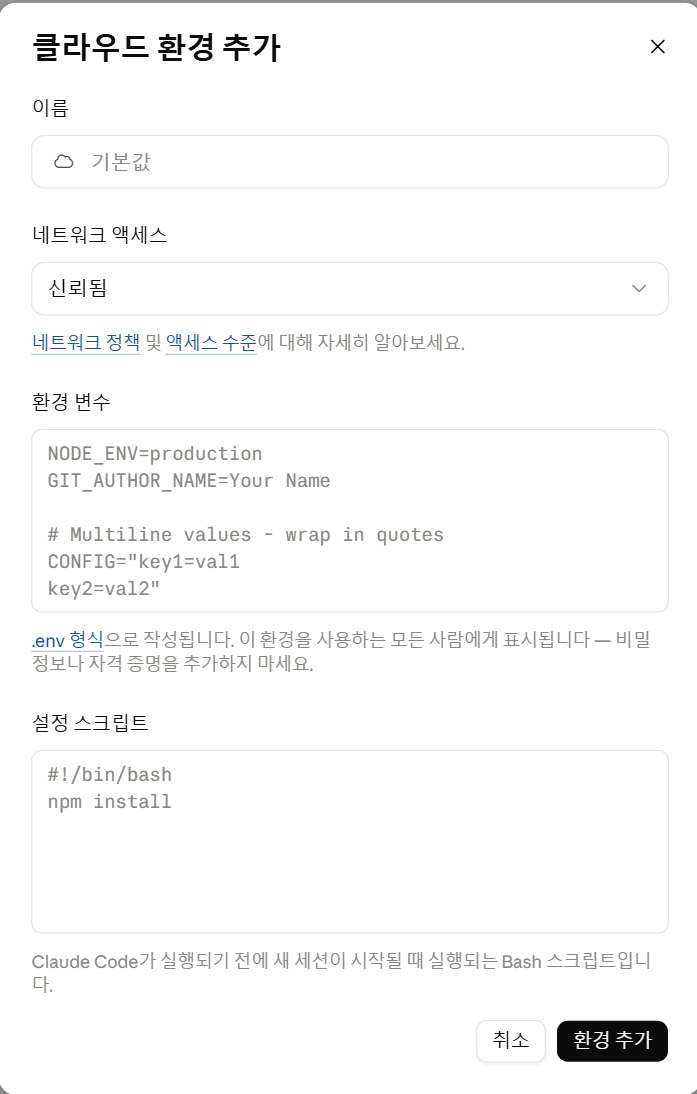
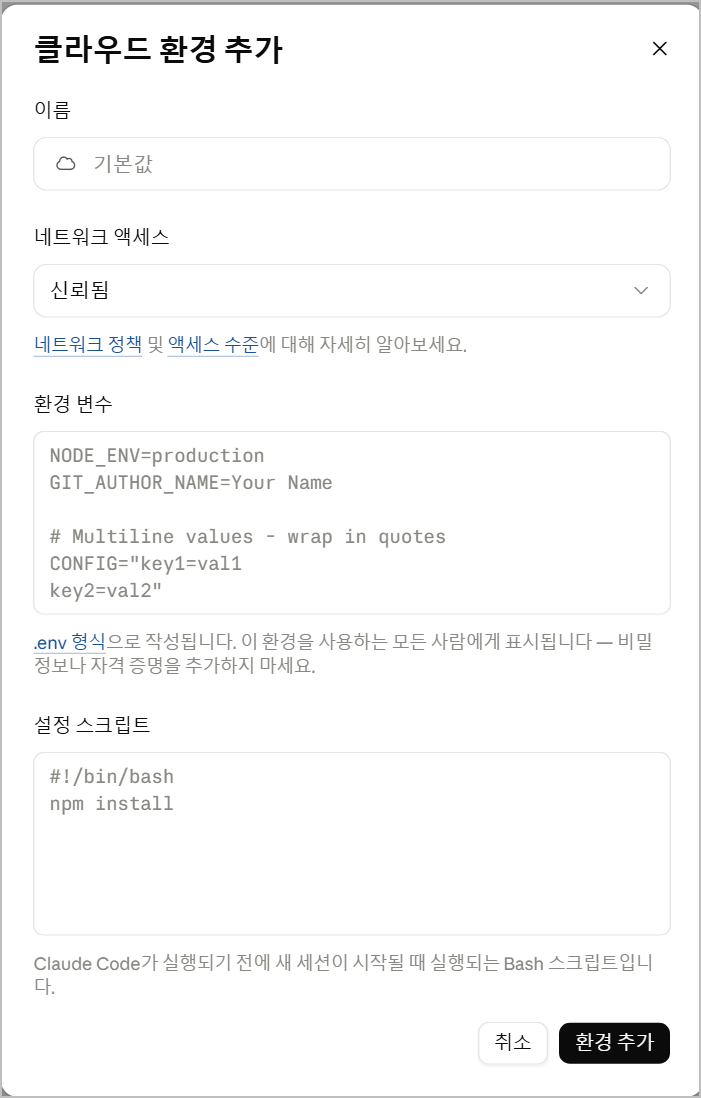
docs(user-guide): 가이드 12 스크린샷에 테두리를 넣고 본문에 맞게 줄인다
- 테두리는 PNG 자체에(연회색, 화면에서 1px), 크기는 `<img width>` 로
  (토큰 400 · 클라우드 환경 340 · 동의 480). GitHub 가 `![]()` 크기와
  `style` 을 지원하지 않아서다.
- 동의 화면은 카드 주변 여백을 잘라 924×760 으로.
- 규칙을 `assets/README.md` 에 적음. test-catalog 199차.

Claude-Session: https://claude.ai/code/session_01PHMCTbMKMt1Nq2yNJHcjEs

diff --git a/docs/05-implementation/test-catalog.md b/docs/05-implementation/test-catalog.md
@@ -420,6 +420,15 @@
 > 겹쳐 보이지만 날짜와 함께 읽으면 유일하다. **고치지 말 것** — 그때의
 > 기록을 지금 규칙으로 고쳐 쓰면 없던 역사를 만드는 셈이다.
 
+- 2026-09-13 (199차): **문서 — 가이드 12 스크린샷 셋에 테두리 + 크기 조정**
+  (사용자 요청: "테두리를 넣고 문서 내용과 어울리게 줄여 달라"). GitHub 는
+  `![]()` 에 크기를 못 주고 `style` 을 지우므로 **테두리는 PNG 자체에**
+  (Pillow, 연회색 · 표시 배율로 나눠 화면 1px), **크기는 `<img width>`**
+  (토큰 400 · 클라우드 환경 340 · 동의 480)로 했다. 동의 화면은 카드 주변
+  베이지 여백이 넓어 480 으로 줄이면 카드가 작아져 **카드 기준 40px 만
+  남기고 잘랐다**(1800×860 → 924×760). 세 그림을 본문 폭 960 의 HTML 로
+  렌더해 Playwright 로 미리보기를 찍어 확인했다. 규칙은 `assets/README.md`
+  에 적었다. e2e 는 늘리지 않았다.
 - 2026-09-13 (198차): **문서 — 2-B 클라우드 환경 추가 대화상자 스크린샷**.
   가이드 12 의 마지막 `TODO(스크린샷)` 이다. claude.ai 화면이라 우리
   컴포넌트로 렌더할 수 없어 **사용자가 직접 캡처**했다(#475). 이 세션은

diff --git a/docs/user-guide/assets/README.md b/docs/user-guide/assets/README.md
@@ -3,3 +3,18 @@
 이 폴더에 사용자 가이드용 화면 캡처를 넣는다. 각 가이드 문서의
 `TODO(스크린샷)` 표시 위치에 대응하는 이미지를 파일명으로 참조한다
 (예: `01-overview.png`). 기능이 안정화된 뒤 일괄 캡처를 권장한다.
+
+## 넣는 규칙 (2026-09-13)
+
+- **크기**는 마크다운 `![]()` 가 아니라 `<img src="assets/…" width="400" alt="…">`
+  로 준다 — GitHub 는 `![]()` 에 크기를 못 주고 `style` 속성은 지운다.
+  본문 폭(약 900px)에 맞춰 대화상자는 340~480 정도가 읽기 좋다.
+- **테두리**는 그림 파일 자체에 넣는다(연회색 `#bfbfbf`, 표시 배율로 나눠
+  화면에서 1px). 어느 렌더러에서 열어도 같게 보이게 하려는 것이다.
+  ```bash
+  python3 -c "from PIL import Image,ImageOps;im=Image.open('x.png').convert('RGB');ImageOps.expand(im,border=round(im.width/400),fill=(191,191,191)).save('x.png',optimize=True)"
+  ```
+- 배경 여백이 넓은 캡처는 **대상 주변 40px 만 남기고 자른다** — 폭을 줄였을
+  때 대상이 너무 작아진다.
+- 토큰·이메일 같은 값은 넣기 전에 가리거나 예시 값으로 바꾼다.
+
